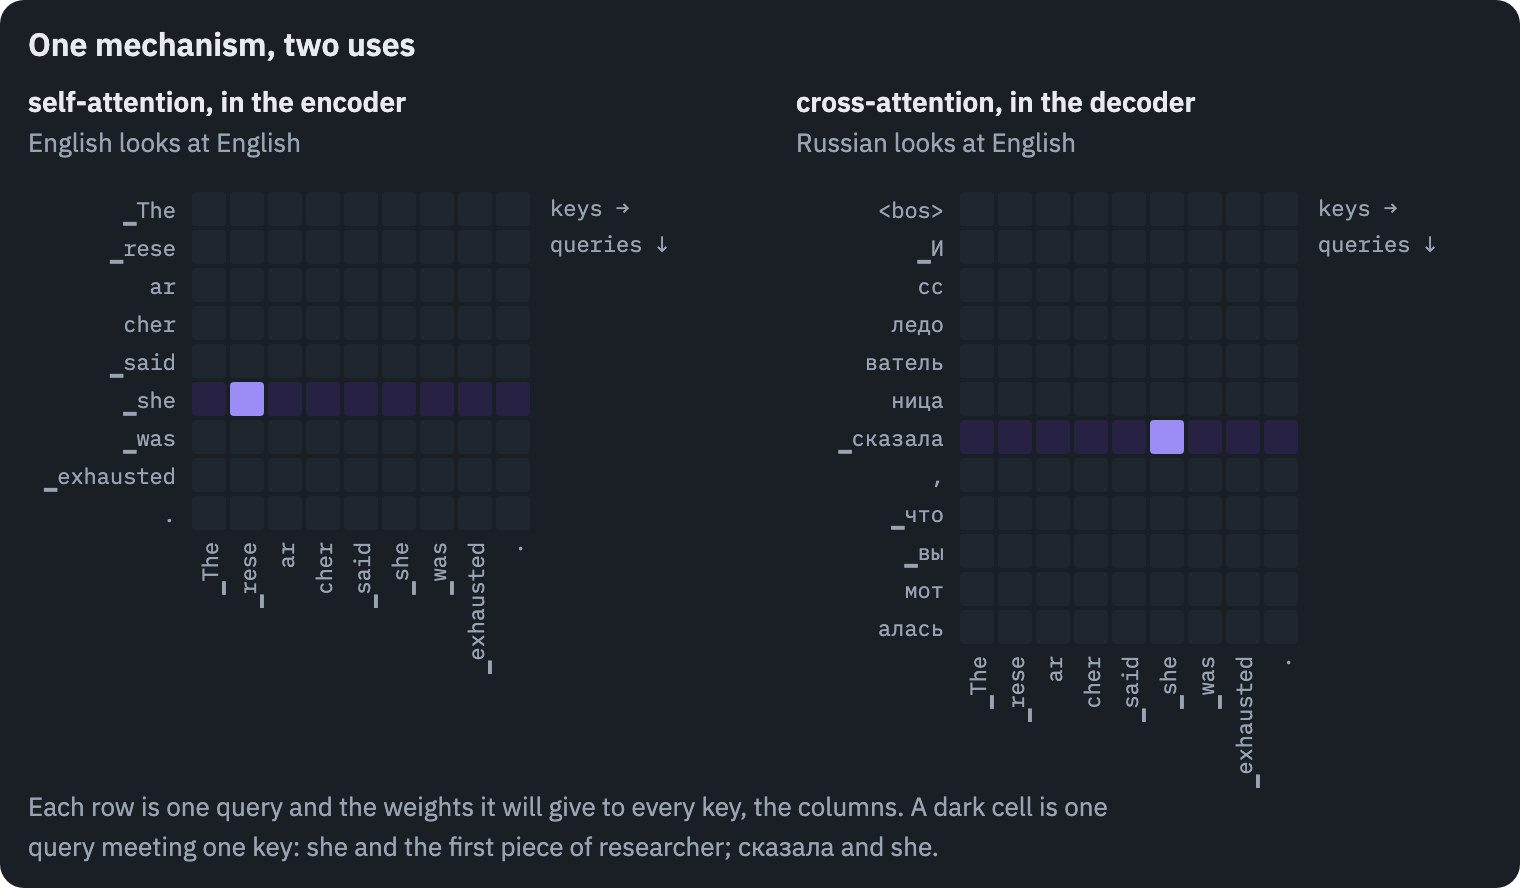
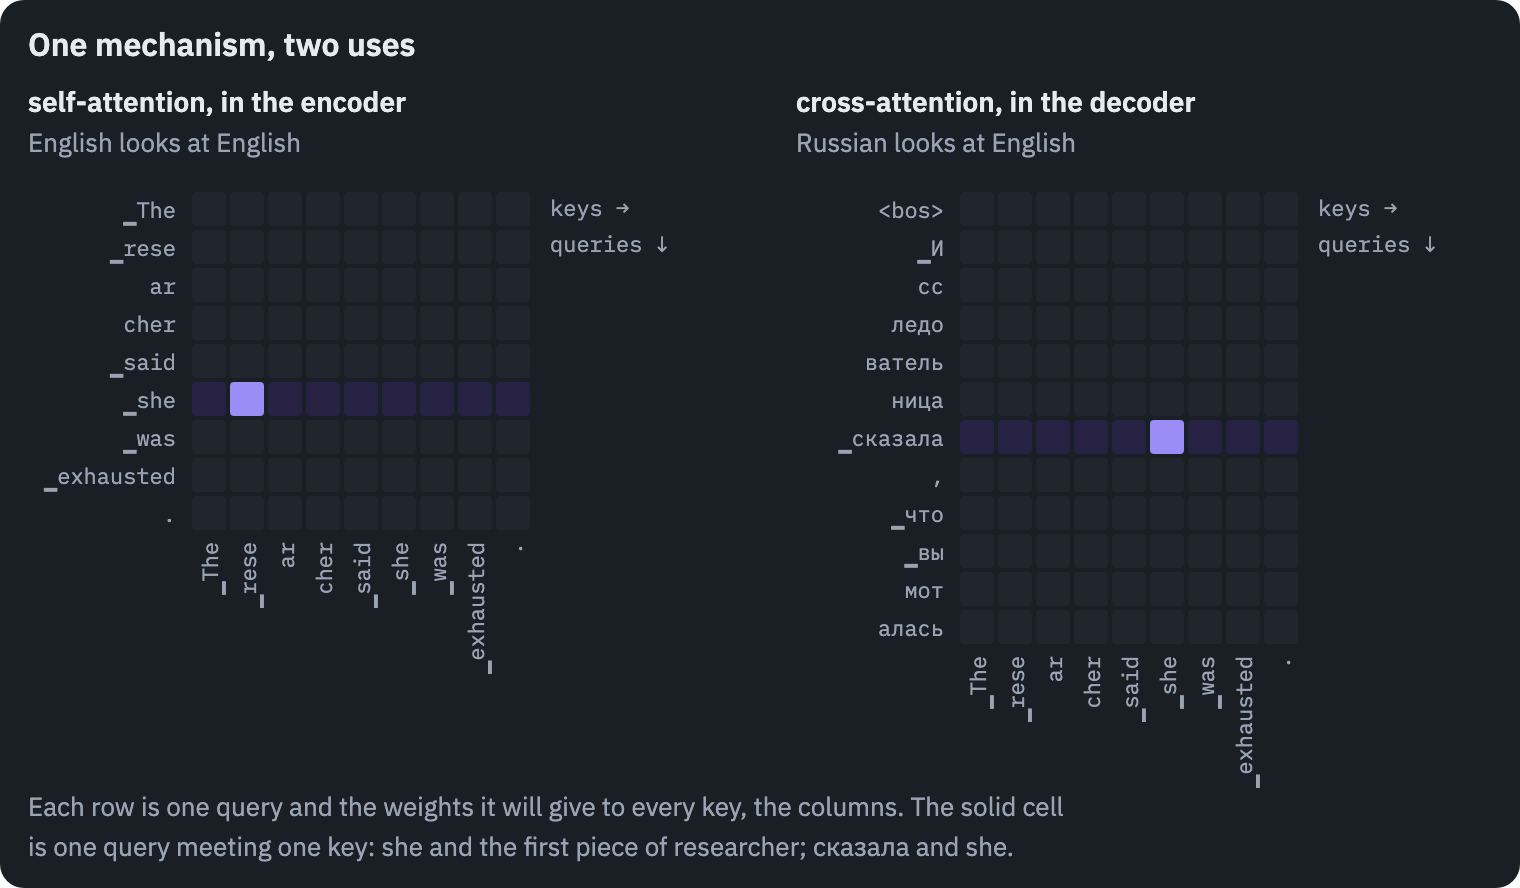
Lesson 2: a caption that holds in both themes

Changed region(s): [[0.0, 0.8818, 0.7421, 0.973]]

diff --git a/lessons/02_transformer/figures.py b/lessons/02_transformer/figures.py
@@ -476,9 +476,10 @@ def self_cross() -> Figure:
             fig.text(gx + k * cell + 13, bottom + 4, token, kind="small", anchor="end", upright=True)
         fig.text(gx + len(cols) * cell + 8, top + 12, "keys →", kind="small")
         fig.text(gx + len(cols) * cell + 8, top + 30, "queries ↓", kind="small")
-    fig.text(14, 408, "Each row is one query and the weights it will give to every key, the columns. A dark cell is "
-             "one", kind="note")
-    fig.text(14, 428, "query meeting one key: she and the first piece of researcher; сказала and she.", kind="note")
+    fig.text(14, 408, "Each row is one query and the weights it will give to every key, the columns. The solid cell",
+             kind="note")
+    fig.text(14, 428, "is one query meeting one key: she and the first piece of researcher; сказала and she.",
+             kind="note")
     return fig
 
 
